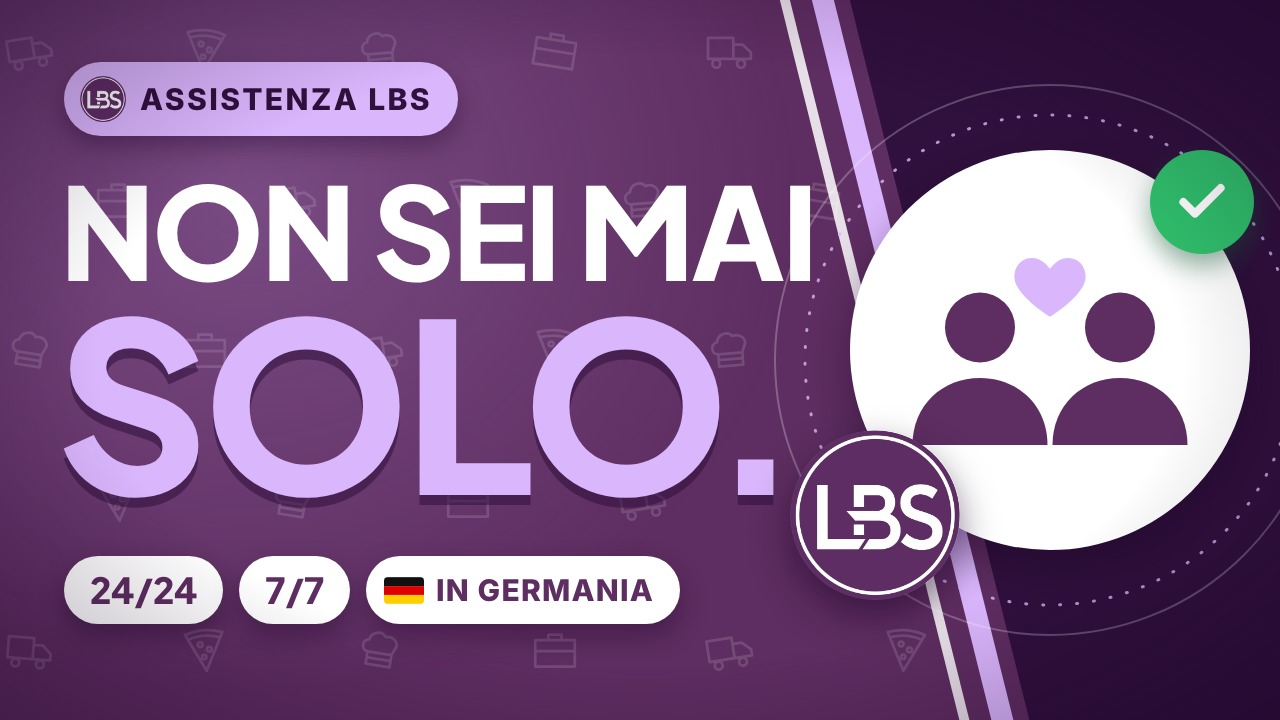
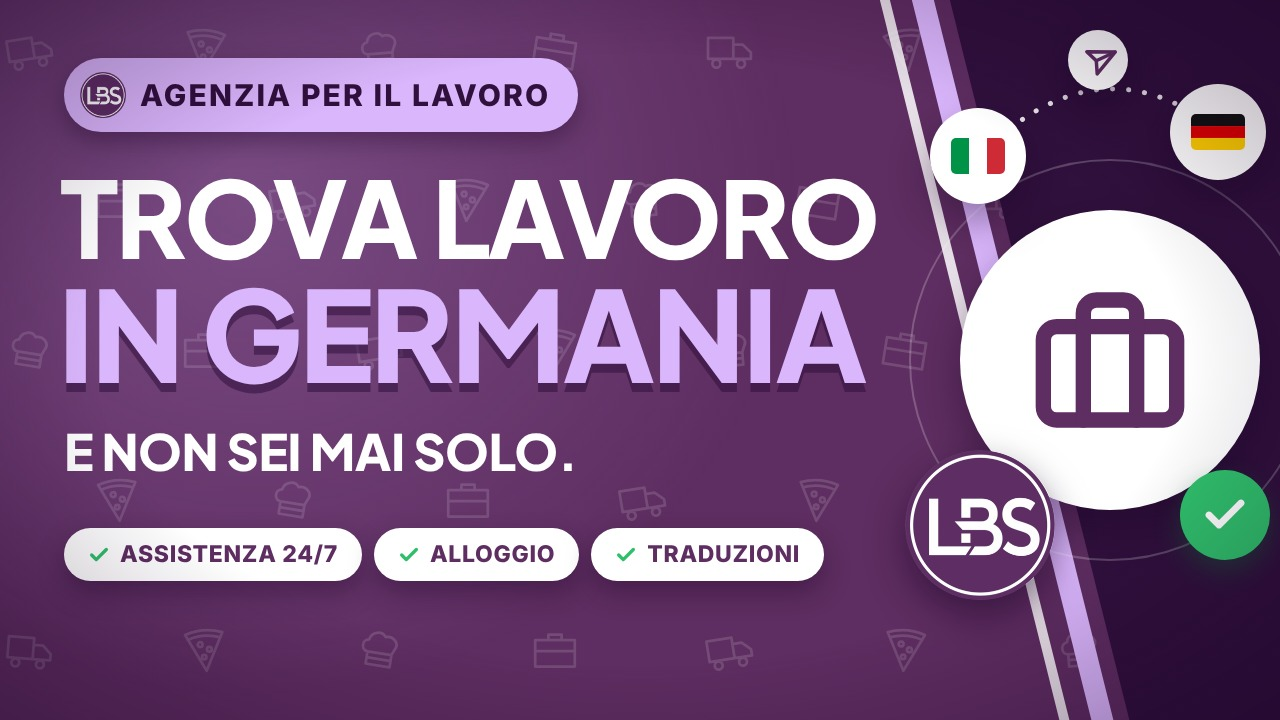
Thumbnail: lead with the job-agency message (Trova lavoro in Germania)
Claude-Session: https://claude.ai/code/session_01FyDaJg18W1pAhwWwHBkyUG

diff --git a/lbs-video/assistenza/thumbnail/thumb.src.html b/lbs-video/assistenza/thumbnail/thumb.src.html
@@ -16,37 +16,36 @@ body{background:#000}
   <canvas id="bg" width="1280" height="720" style="left:0;top:0"></canvas>
   <div style="left:-300px;top:-300px;width:1100px;height:1000px;background:radial-gradient(closest-side,rgba(218,182,252,.22),rgba(218,182,252,0))"></div>
   <!-- diagonal bands, like the video's wipes -->
-  <div style="left:800px;top:-200px;width:900px;height:1200px;background:#30103d;transform:skewX(14deg);transform-origin:0 0"></div>
-  <div style="left:762px;top:-200px;width:22px;height:1200px;background:#dab6fc;transform:skewX(14deg);transform-origin:0 0"></div>
-  <div style="left:730px;top:-200px;width:10px;height:1200px;background:#fff;opacity:.85;transform:skewX(14deg);transform-origin:0 0"></div>
+  <div style="left:900px;top:-200px;width:900px;height:1200px;background:#30103d;transform:skewX(14deg);transform-origin:0 0"></div>
+  <div style="left:862px;top:-200px;width:22px;height:1200px;background:#dab6fc;transform:skewX(14deg);transform-origin:0 0"></div>
+  <div style="left:830px;top:-200px;width:10px;height:1200px;background:#fff;opacity:.85;transform:skewX(14deg);transform-origin:0 0"></div>
 
   <!-- left: headline -->
-  <div style="left:64px;top:62px;display:flex;align-items:center;gap:14px;padding:14px 26px 14px 16px;border-radius:999px;background:#dab6fc;color:#30103d;font:800 30px/1 INT;letter-spacing:.08em;box-shadow:0 10px 24px rgba(25,4,35,.35)">
-    <img id="lg" style="width:46px;height:46px">ASSISTENZA LBS</div>
-  <div class="h1" style="left:60px;top:170px;font-size:128px">NON SEI MAI</div>
-  <div class="h1" style="left:56px;top:290px;font-size:236px;color:#dab6fc;text-shadow:0 10px 0 rgba(48,16,61,.55)">SOLO<span style="margin-left:-.07em">.</span></div>
-  <div style="left:64px;top:556px;display:flex;gap:16px">
-    <div style="padding:16px 26px;border-radius:999px;background:#fff;color:#5e2d61;font:800 36px/1 PJS;letter-spacing:-.01em;box-shadow:0 12px 26px rgba(25,4,35,.35)">24/24</div>
-    <div style="padding:16px 26px;border-radius:999px;background:#fff;color:#5e2d61;font:800 36px/1 PJS;letter-spacing:-.01em;box-shadow:0 12px 26px rgba(25,4,35,.35)">7/7</div>
-    <div style="padding:16px 26px 16px 18px;border-radius:999px;background:#fff;color:#5e2d61;font:800 30px/36px INT;letter-spacing:.04em;display:flex;align-items:center;gap:12px;box-shadow:0 12px 26px rgba(25,4,35,.35)">
-      <svg width="40" height="27" viewBox="0 0 3 2" style="border-radius:4px"><rect width="3" height=".67" fill="#111"/><rect y=".67" width="3" height=".67" fill="#dd0000"/><rect y="1.33" width="3" height=".67" fill="#ffce00"/></svg>IN GERMANIA</div>
+  <div style="left:64px;top:58px;display:flex;align-items:center;gap:14px;padding:14px 28px 14px 16px;border-radius:999px;background:#dab6fc;color:#30103d;font:800 30px/1 INT;letter-spacing:.07em;box-shadow:0 10px 24px rgba(25,4,35,.35)">
+    <img id="lg" style="width:46px;height:46px">AGENZIA PER IL LAVORO</div>
+  <div class="h1" id="l1" style="left:60px;top:168px;font-size:106px">TROVA LAVORO</div>
+  <div class="h1" id="l2" style="left:58px;top:274px;font-size:126px;color:#dab6fc;text-shadow:0 9px 0 rgba(48,16,61,.55)">IN GERMANIA</div>
+  <div class="h1" style="left:64px;top:428px;font-size:50px;letter-spacing:-.01em">E NON SEI MAI SOLO.</div>
+  <div style="left:64px;top:528px;display:flex;gap:12px">
+    <div style="padding:15px 24px;border-radius:999px;background:#fff;color:#5e2d61;font:800 23px/1 INT;letter-spacing:.03em;display:flex;align-items:center;gap:10px;box-shadow:0 12px 26px rgba(25,4,35,.35)"><svg width="22" height="22" viewBox="0 0 24 24" fill="none" stroke="#2fbf6b" stroke-width="3.6" stroke-linecap="round" stroke-linejoin="round"><path d="M20 6L9 17l-5-5"/></svg>ASSISTENZA 24/7</div>
+    <div style="padding:15px 24px;border-radius:999px;background:#fff;color:#5e2d61;font:800 23px/1 INT;letter-spacing:.03em;display:flex;align-items:center;gap:10px;box-shadow:0 12px 26px rgba(25,4,35,.35)"><svg width="22" height="22" viewBox="0 0 24 24" fill="none" stroke="#2fbf6b" stroke-width="3.6" stroke-linecap="round" stroke-linejoin="round"><path d="M20 6L9 17l-5-5"/></svg>ALLOGGIO</div>
+    <div style="padding:15px 24px;border-radius:999px;background:#fff;color:#5e2d61;font:800 23px/1 INT;letter-spacing:.03em;display:flex;align-items:center;gap:10px;box-shadow:0 12px 26px rgba(25,4,35,.35)"><svg width="22" height="22" viewBox="0 0 24 24" fill="none" stroke="#2fbf6b" stroke-width="3.6" stroke-linecap="round" stroke-linejoin="round"><path d="M20 6L9 17l-5-5"/></svg>TRADUZIONI</div>
   </div>
 
-  <!-- right: the video's "companion" object -->
-  <svg style="left:840px;top:60px;overflow:visible" width="420" height="600" viewBox="0 0 420 600">
-    <circle cx="210" cy="300" r="245" fill="none" stroke="#dab6fc" stroke-width="3" stroke-dasharray="1 16" stroke-linecap="round" opacity=".8"/>
-    <circle cx="210" cy="300" r="275" fill="none" stroke="#fff" stroke-width="2" opacity=".25"/>
+  <!-- right: the job, from Italy to Germany -->
+  <svg style="left:0;top:0;overflow:visible" width="1280" height="720" viewBox="0 0 1280 720">
+    <circle cx="1110" cy="360" r="200" fill="none" stroke="#fff" stroke-width="2" opacity=".22"/>
+    <path d="M985 150 Q1100 40 1215 128" fill="none" stroke="#fff" stroke-width="5" stroke-linecap="round" stroke-dasharray=".1 16" opacity=".9"/>
   </svg>
-  <div class="cc" style="left:850px;top:150px;width:400px;height:400px">
-    <svg width="290" height="200" viewBox="0 0 58 40">
-      <g fill="#5e2d61"><circle cx="15" cy="15.5" r="7"/><path d="M1.5 39c0-8 6-13.4 13.5-13.4S28.5 31 28.5 39z"/>
-      <circle cx="43" cy="15.5" r="7"/><path d="M29.5 39c0-8 6-13.4 13.5-13.4S56.5 31 56.5 39z"/></g>
-      <path transform="translate(20.6 -1.5) scale(.7)" fill="#dab6fc" d="M12 21.2s-7.6-4.6-9.7-9.3C.8 8.5 3 4.4 6.8 4.4c2.2 0 3.7 1.2 5.2 3.1 1.5-1.9 3-3.1 5.2-3.1 3.8 0 6 4.1 4.5 7.5-2.1 4.7-9.7 9.3-9.7 9.3z"/>
-    </svg>
+  <div class="cc" style="left:960px;top:210px;width:300px;height:300px">
+    <svg width="160" height="160" viewBox="0 0 24 24" fill="none" stroke="#5e2d61" stroke-width="2.3" stroke-linecap="round" stroke-linejoin="round"><rect x="2" y="7" width="20" height="14" rx="2"/><path d="M16 21V5a2 2 0 0 0-2-2h-4a2 2 0 0 0-2 2v16"/></svg>
   </div>
-  <img id="lg2" style="left:790px;top:430px;width:170px;height:170px;border-radius:50%;box-shadow:0 16px 36px rgba(25,4,35,.5)">
-  <div class="cc" style="left:1150px;top:150px;width:104px;height:104px;background:#2fbf6b;box-shadow:0 12px 26px rgba(20,90,50,.45)">
-    <svg width="56" height="56" viewBox="0 0 24 24" fill="none" stroke="#fff" stroke-width="3.4" stroke-linecap="round" stroke-linejoin="round"><path d="M20 6L9 17l-5-5"/></svg></div>
+  <div class="cc" style="left:930px;top:108px;width:96px;height:96px"><svg width="54" height="36" viewBox="0 0 3 2" style="border-radius:5px"><rect width="1" height="2" fill="#009246"/><rect x="1" width="1" height="2" fill="#fff"/><rect x="2" width="1" height="2" fill="#ce2b37"/></svg></div>
+  <div class="cc" style="left:1170px;top:84px;width:96px;height:96px"><svg width="54" height="36" viewBox="0 0 3 2" style="border-radius:5px"><rect width="3" height=".67" fill="#111"/><rect y=".67" width="3" height=".67" fill="#dd0000"/><rect y="1.33" width="3" height=".67" fill="#ffce00"/></svg></div>
+  <div class="cc" style="left:1068px;top:30px;width:60px;height:60px"><svg width="32" height="32" viewBox="0 0 24 24" fill="none" stroke="#5e2d61" stroke-width="2.6" stroke-linecap="round" stroke-linejoin="round" style="transform:rotate(20deg)"><path d="M22 2L11 13"/><path d="M22 2l-7 20-4-9-9-4 20-7z"/></svg></div>
+  <img id="lg2" style="left:905px;top:450px;width:150px;height:150px;border-radius:50%;box-shadow:0 16px 36px rgba(25,4,35,.5)">
+  <div class="cc" style="left:1180px;top:470px;width:90px;height:90px;background:#2fbf6b;box-shadow:0 12px 26px rgba(20,90,50,.45)">
+    <svg width="48" height="48" viewBox="0 0 24 24" fill="none" stroke="#fff" stroke-width="3.4" stroke-linecap="round" stroke-linejoin="round"><path d="M20 6L9 17l-5-5"/></svg></div>
   <div style="inset:0;background:radial-gradient(ellipse at 50% 50%,rgba(0,0,0,0) 60%,rgba(20,0,30,.35) 100%)"></div>
 </div>
 <script>
